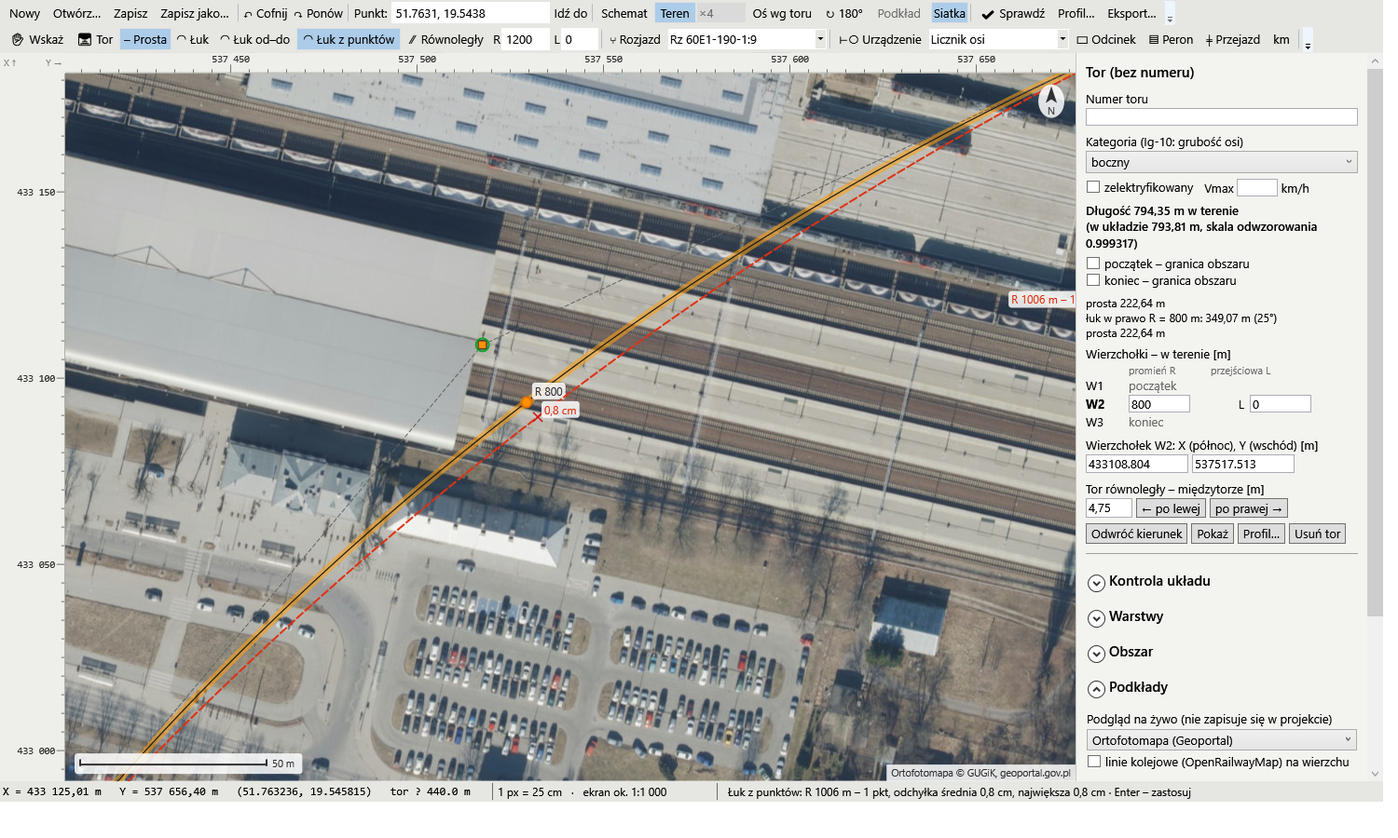
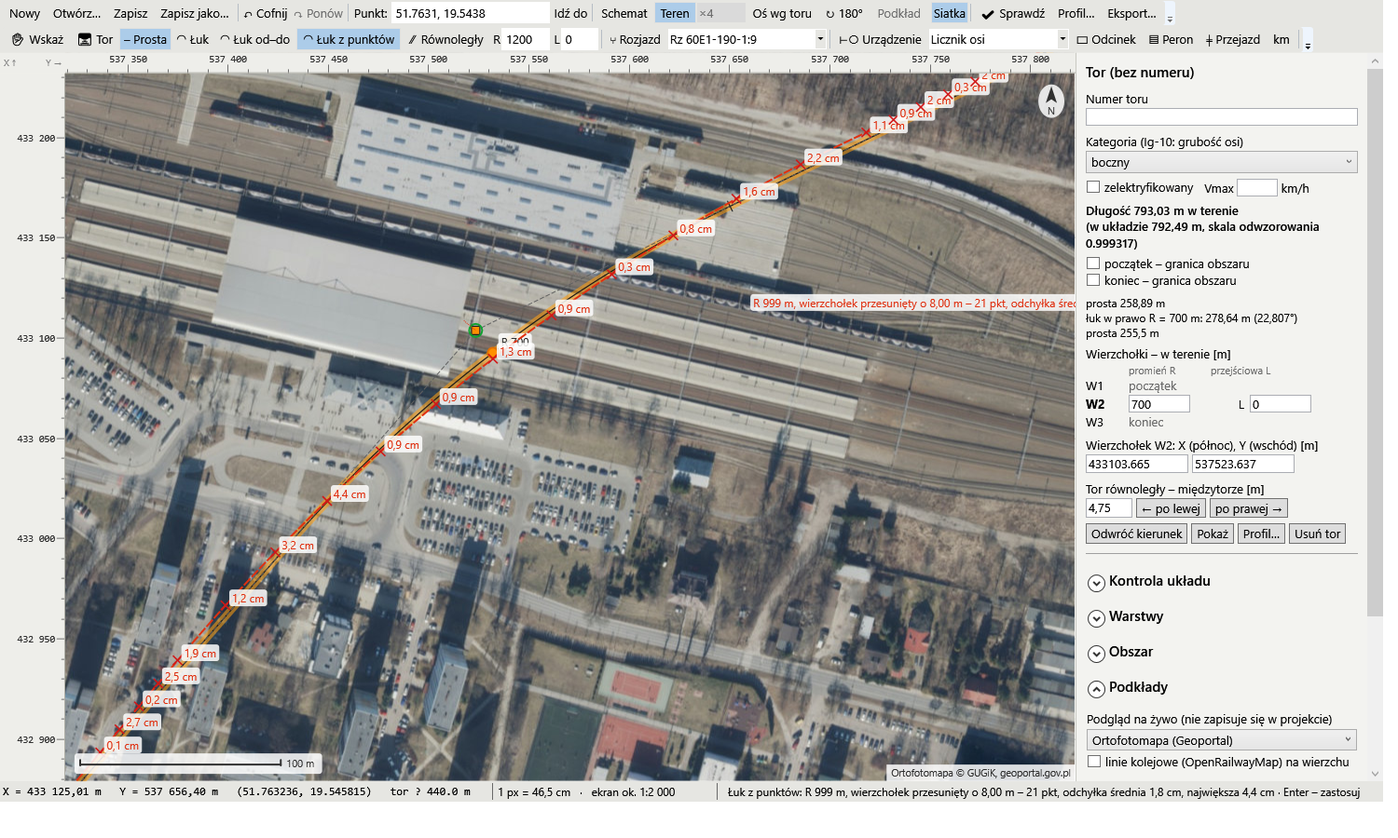
Edytor UT: łuk z punktów dopasowuje też wierzchołek (kierunki prostych)
- Budowa.FitArcFree: położenie wierzchołka, R i L razem metodą
  najmniejszych kwadratów (simpleks Neldera–Meada), końce toru stałe.
- Domyślnie w narzędziu „Łuk z punktów”; W – proste stałe (tylko R / L).
- Podgląd przesunięcia wierzchołka, Enter stosuje wszystko jedną zmianą.
- Test: wierzchołek 8 m obok i R 700 → 0,06 m i R 999 (prawdziwy 1000).

diff --git a/app/Lcs.Model/UtBudowa.cs b/app/Lcs.Model/UtBudowa.cs
@@ -353,7 +353,77 @@ public static class Budowa
         var dev = pts.Select(q => res.Nearest(q, 0.25).Dist / k).ToList();
         return new ArcFit(R, L, Math.Sqrt(dev.Sum(x => x * x) / dev.Count), dev.Max(), dev, null);
     }
+
+    /// <summary>
+    /// Łuk z punktów ze swobodnym wierzchołkiem: położenie wierzchołka <paramref name="vi"/> (czyli kierunki obu prostych do sąsiednich
+    /// wierzchołków), R i (gdy <paramref name="fitL"/>) L dobrane do punktów metodą najmniejszych kwadratów (simpleks Neldera–Meada,
+    /// start z dopasowania przy stałych prostych). Sąsiednie wierzchołki zostają. Punkty najlepiej na łuku i na prostych przed nim i za nim.
+    /// </summary>
+    public static ArcFit FitArcFree(IReadOnlyList<UtVertex> v, int vi, IReadOnlyList<XY> pts, double k, bool fitL)
+    {
+        var fixedFit = FitArc(v, vi, pts, k, fitL);
+        if (pts.Count < 4 || vi <= 0 || vi >= v.Count - 1) return fixedFit;
+        var p0 = v[vi].P;
+        double r0 = fixedFit.Error == null ? fixedFit.R : Math.Max(v[vi].R, 300), l0 = fixedFit.Error == null ? fixedFit.L : (fitL ? 0 : v[vi].L);
+        bool Bad(TrasaResult r) => r.Notes.Any(n => n.Error && n.Vertex >= vi - 1 && n.Vertex <= vi + 2);
+        List<UtVertex> Make(double[] x)
+        {
+            var c = v.Select(q => q.Clone()).ToList();
+            c[vi].X = p0.X + x[0] * k; c[vi].Y = p0.Y + x[1] * k; c[vi].R = Math.Exp(x[2]); c[vi].L = fitL ? Math.Max(0, x[3]) : v[vi].L;
+            return c;
+        }
+        double F(double[] x)
+        {
+            var r = Trasa.Compute(Make(x), k); if (Bad(r)) return 1e18;
+            double s = 0; foreach (var q in pts) { var d = r.Nearest(q, 1).Dist; s += d * d; }
+            return s;
+        }
+        int n = fitL ? 4 : 3;
+        var best = new double[] { 0, 0, Math.Log(r0), l0 };
+        // dwa przebiegi simpleksu (drugi od najlepszego punktu) – mniej utknięć
+        foreach (var step in new[] { new double[] { 5, 5, 0.2, 10 }, new double[] { 1, 1, 0.05, 3 } })
+            best = NelderMead(F, best, step, n, 400);
+        var fv = Make(best);
+        // zaokrąglenie R i L do 1 m (wierzchołek – co 1 mm) i kontrola, czy się mieści
+        double R = Math.Max(1, Math.Round(fv[vi].R)), L = Math.Max(0, Math.Round(fv[vi].L));
+        fv[vi].X = Math.Round(fv[vi].X, 3); fv[vi].Y = Math.Round(fv[vi].Y, 3); fv[vi].R = R; fv[vi].L = L;
+        while (fv[vi].R > 1 && Bad(Trasa.Compute(fv, k))) fv[vi].R -= 1;
+        var res = Trasa.Compute(fv, k);
+        if (Bad(res)) return fixedFit;
+        var dev = pts.Select(q => res.Nearest(q, 0.25).Dist / k).ToList();
+        double rms = Math.Sqrt(dev.Sum(x => x * x) / dev.Count);
+        if (fixedFit.Error == null && rms > fixedFit.Rms) return fixedFit;      // nie gorzej niż przy stałych prostych
+        return new ArcFit(fv[vi].R, fv[vi].L, rms, dev.Max(), dev, null, fv[vi].P);
+    }
+
+    /// <summary>Simpleks Neldera–Meada (minimum f) w pierwszych <paramref name="n"/> współrzędnych; pozostałe stałe.</summary>
+    static double[] NelderMead(Func<double[], double> f, double[] x0, double[] step, int n, int maxIt)
+    {
+        var pts = new List<double[]> { (double[])x0.Clone() };
+        for (int i = 0; i < n; i++) { var p = (double[])x0.Clone(); p[i] += step[i]; pts.Add(p); }
+        var fs = pts.Select(f).ToList();
+        for (int it = 0; it < maxIt; it++)
+        {
+            var ord = Enumerable.Range(0, n + 1).OrderBy(i => fs[i]).ToList();
+            pts = ord.Select(i => pts[i]).ToList(); fs = ord.Select(i => fs[i]).ToList();
+            if (Math.Abs(fs[n] - fs[0]) <= 1e-10 * (Math.Abs(fs[0]) + 1e-12)) break;
+            var c = new double[x0.Length]; Array.Copy(x0, c, x0.Length);
+            for (int j = 0; j < n; j++) c[j] = pts.Take(n).Average(p => p[j]);
+            double[] At(double t) { var q = (double[])pts[n].Clone(); for (int j = 0; j < n; j++) q[j] = c[j] + t * (pts[n][j] - c[j]); return q; }
+            var xr = At(-1); double fr = f(xr);
+            if (fr < fs[0]) { var xe = At(-2); double fe = f(xe); if (fe < fr) { pts[n] = xe; fs[n] = fe; } else { pts[n] = xr; fs[n] = fr; } continue; }
+            if (fr < fs[n - 1]) { pts[n] = xr; fs[n] = fr; continue; }
+            var xc = fr < fs[n] ? At(-0.5) : At(0.5); double fc = f(xc);
+            if (fc < Math.Min(fr, fs[n])) { pts[n] = xc; fs[n] = fc; continue; }
+            for (int i = 1; i <= n; i++) { for (int j = 0; j < n; j++) pts[i][j] = pts[0][j] + 0.5 * (pts[i][j] - pts[0][j]); fs[i] = f(pts[i]); }
+        }
+        int bi = Enumerable.Range(0, n + 1).OrderBy(i => fs[i]).First();
+        return pts[bi];
+    }
 }
 
-/// <summary>Wynik dopasowania łuku do punktów: R, L [m], odchyłka średnia kwadratowa i największa [m], odchyłki punktów, błąd.</summary>
-public record ArcFit(double R, double L, double Rms, double Max, List<double> Dev, string Error);
+/// <summary>
+/// Wynik dopasowania łuku do punktów: R, L [m], odchyłka średnia kwadratowa i największa [m], odchyłki punktów, błąd;
+/// <see cref="Vertex"/> – nowe położenie wierzchołka (dopasowanie ze swobodnym wierzchołkiem), null – bez zmiany.
+/// </summary>
+public record ArcFit(double R, double L, double Rms, double Max, List<double> Dev, string Error, XY? Vertex = null);

diff --git a/app/Lcs.EdytorUT/UtView.LukPunkty.cs b/app/Lcs.EdytorUT/UtView.LukPunkty.cs
@@ -17,9 +17,11 @@ public partial class UtView
     public readonly List<XY> FitPts = new();
     /// <summary>Dopasowanie także krzywych przejściowych L (Tab).</summary>
     public bool FitWithL { get; private set; }
+    /// <summary>Wierzchołek (kierunki prostych) też dopasowywany do punktów – domyślnie; W – stałe proste.</summary>
+    public bool FitFreeVertex { get; private set; } = true;
     public ArcFit FitResult { get; private set; }
     /// <summary>Łuk z punktów gotowy: tor, wierzchołek, R, L, opis.</summary>
-    public event Action<string, int, double, double, string> ArcFitDone;
+    public event Action<string, int, double, double, XY?, string> ArcFitDone;
 
     /// <summary>Wierzchołek łuku pod kursorem: element osi najbliżej kliknięcia (łuk / przejściowa – jego wierzchołek, prosta – bliższy wierzchołek).</summary>
     (string Track, int Vi)? FitVertexAt(Point s)
@@ -56,7 +58,7 @@ public partial class UtView
     void Refit()
     {
         if (fitArc is not var (id, vi) || Track(id) is not UtTrack t) { FitResult = null; return; }
-        FitResult = FitPts.Count == 0 ? null : Budowa.FitArc(t.Vertices, vi, FitPts, Trasa.KFor(t), FitWithL);
+        FitResult = FitPts.Count == 0 ? null : FitFreeVertex ? Budowa.FitArcFree(t.Vertices, vi, FitPts, Trasa.KFor(t), FitWithL) : Budowa.FitArc(t.Vertices, vi, FitPts, Trasa.KFor(t), FitWithL);
         DraftInfo?.Invoke(FitInfo());
         InvalidateVisual();
     }
@@ -65,7 +67,8 @@ public partial class UtView
     {
         if (FitResult == null) return "Łuk z punktów: kliknij punkty na osi łuku";
         if (FitResult.Error != null) return "Łuk z punktów: " + FitResult.Error;
-        return $"Łuk z punktów: R {FitResult.R:0} m" + (FitWithL || FitResult.L > 0 ? $", L {FitResult.L:0} m" : "") +
+        string vx = FitFreeVertex ? (FitResult.Vertex is XY nv && fitArc is var (fid, fvi) && Track(fid) is UtTrack ft ? $", wierzchołek przesunięty o {XY.Dist(nv, ft.Vertices[fvi].P) / Trasa.KFor(ft):0.00} m" : FitPts.Count < 4 ? " (wierzchołek – od 4 punktów)" : "") : " (proste stałe – W)";
+        return $"Łuk z punktów: R {FitResult.R:0} m" + (FitWithL || FitResult.L > 0 ? $", L {FitResult.L:0} m" : "") + vx +
                $" – {FitPts.Count} pkt, odchyłka średnia {FitResult.Rms * 100:0.#} cm, największa {FitResult.Max * 100:0.#} cm · Enter – zastosuj";
     }
 
@@ -75,7 +78,7 @@ public partial class UtView
         if (fitArc is not var (id, vi) || FitResult == null || FitResult.Error != null) return false;
         var r = FitResult; string info = FitInfo().Replace(" · Enter – zastosuj", "");
         fitArc = null; FitPts.Clear(); FitResult = null; InvalidateVisual();
-        ArcFitDone?.Invoke(id, vi, r.R, r.L, info);
+        ArcFitDone?.Invoke(id, vi, r.R, r.L, r.Vertex, info);
         return true;
     }
 
@@ -83,6 +86,7 @@ public partial class UtView
     {
         if (tool != UtTool.LukPunkty) return false;
         if (k == Key.Tab) { FitWithL = !FitWithL; if (fitArc != null) Refit(); else DraftInfo?.Invoke(FitWithL ? "Łuk z punktów: dopasowanie R i krzywych przejściowych L" : "Łuk z punktów: dopasowanie samego R"); return true; }
+        if (k == Key.W) { FitFreeVertex = !FitFreeVertex; if (fitArc != null) Refit(); else DraftInfo?.Invoke(FitFreeVertex ? "Łuk z punktów: wierzchołek (proste) też dopasowywany" : "Łuk z punktów: proste stałe, tylko R / L"); return true; }
         if (fitArc == null) return false;
         if (k == Key.Escape) { fitArc = null; FitPts.Clear(); FitResult = null; DraftInfo?.Invoke("Łuk z punktów: kliknij łuk toru"); InvalidateVisual(); return true; }
         if (k == Key.Back) { if (FitPts.Count > 0) { FitPts.RemoveAt(FitPts.Count - 1); Refit(); } return true; }
@@ -104,6 +108,7 @@ public partial class UtView
         if (FitResult is { Error: null } fr)
         {
             var c = t.Vertices.Select(x => x.Clone()).ToList(); c[vi].R = fr.R; c[vi].L = fr.L;
+            if (fr.Vertex is XY nv) { c[vi].X = nv.X; c[vi].Y = nv.Y; dc.DrawLine(new Pen(DraftInk, 1) { DashStyle = DashStyles.Dot }, ToScreen(t.Vertices[vi].P), ToScreen(nv)); }
             dc.DrawGeometry(null, pen, Line(Trasa.Compute(c, Trasa.KFor(t)).Sample(0.5), 0));
         }
         var red = new Pen(Red, 1.6);

diff --git a/app/Lcs.EdytorUT/Test.LukPunkty.cs b/app/Lcs.EdytorUT/Test.LukPunkty.cs
@@ -37,7 +37,9 @@ public static partial class Test
             pts.Add(q + Element.Right(az) * ((rnd.NextDouble() - 0.5) * 0.06 * k));
         }
         w.SetTool(UtTool.LukPunkty);
-        Ok(w.View.Tool == UtTool.LukPunkty, "narzędzie „Łuk z punktów” (J)");
+        Ok(w.View.Tool == UtTool.LukPunkty && w.View.FitFreeVertex, "narzędzie „Łuk z punktów” (J), domyślnie wierzchołek też dopasowywany");
+        KeyPress(w, Key.W);
+        Ok(!w.View.FitFreeVertex, "W – proste stałe (tylko R / L), jak tor narysowany dobrze, a źle tylko R");
         w.View.SetView(o, 0.4);
         var r0 = w.View.Geometry(t);
         w.View.SimClick(S(r0.At(r0.Nearest(o).S).P));
@@ -66,8 +68,38 @@ public static partial class Test
         var mid = truth.At((s0 + len / 2) / truth.K).P; w.View.SetView(mid, 0.1); w.View.SimClick(S(mid));
         var f3 = w.View.FitResult;
         Ok(!w.View.FitWithL && f3 != null && f3.Max < 0.015, $"jeden punkt w środku łuku: R {f3?.R:0} m przechodzi przez niego ({f3?.Max * 100:0.#} cm – R zaokrąglony do 1 m)");
-        if (shotRails != null) { w.View.SetView(mid, 0.25); await Settle(w); Save(w, shotRails.Replace("_szyny.png", "_luk_z_punktow.png")); }
         KeyPress(w, Key.Escape);
+
+        // --- jak na zrzucie właściciela: wierzchołek narysowany 8 m obok, R 700; prawdziwy łuk R 1000 (bez L) – punkty na łuku i na prostych
+        KeyPress(w, Key.W);
+        Ok(w.View.FitFreeVertex, "W – z powrotem: wierzchołek swobodny");
+        var tv = d.P.Tracks.First(x => x.Id == t.Id);
+        var trueV = tv.Vertices[1].P;
+        var off = trueV + Element.Right(lineAz * Math.PI / 180) * (8 * k);
+        d.Change("Zły wierzchołek", p => { var x = p.Tracks.First(q => q.Id == t.Id).Vertices[1]; x.X = off.X; x.Y = off.Y; x.R = 700; x.L = 0; });
+        var truth2 = Trasa.Compute(new List<UtVertex> { tv.Vertices[0].Clone(), new UtVertex { X = trueV.X, Y = trueV.Y, R = 1000 }, tv.Vertices[2].Clone() }, k);
+        double c0 = 0, cl = 0, ac = 0;
+        foreach (var e in truth2.Elements) { if (e.Kind != ElKind.Prosta) { c0 = ac; cl = e.Len; } ac += e.Len; }
+        var pts2 = new List<XY>(); var rnd2 = new Random(11);
+        for (int i = -4; i <= 16; i++)       // 4 punkty na prostej przed łukiem (co 15 m), 13 na łuku, 4 na prostej za nim
+        {
+            double s = i < 0 ? c0 + i * 15 : i <= 12 ? c0 + cl * i / 12 : c0 + cl + (i - 12) * 15;
+            var (q, az) = truth2.At(s / truth2.K); pts2.Add(q + Element.Right(az) * ((rnd2.NextDouble() - 0.5) * 0.06 * k));
+        }
+        var tr2 = w.View.Geometry(d.P.Tracks.First(x => x.Id == t.Id));
+        w.View.SetView(off, 0.4); w.View.SimClick(S(tr2.At(tr2.Nearest(off).S).P));
+        foreach (var q in pts2) { w.View.SetView(q, 0.1); w.View.SimClick(S(q)); }
+        var f4 = w.View.FitResult;
+        double vErr = f4?.Vertex is XY fv4 ? XY.Dist(fv4, trueV) / k : 99;
+        Ok(f4 != null && f4.Error == null && vErr < 0.5 && Math.Abs(f4.R - 1000) <= 15 && f4.Max < 0.05,
+            $"21 punktów (łuk i proste): wierzchołek {vErr:0.00} m od prawdziwego (był 8 m), R {f4?.R:0} m (zdjęcie 1000, był 700), odchyłki średnio {f4?.Rms * 100:0.#} cm, najwyżej {f4?.Max * 100:0.#} cm");
+        if (shotRails != null) { w.View.FitPoints(pts2); await Settle(w); Save(w, shotRails.Replace("_szyny.png", "_luk_z_punktow.png")); }
+        KeyPress(w, Key.Enter);
+        var applied = d.P.Tracks.First(x => x.Id == t.Id).Vertices[1];
+        Ok(XY.Dist(applied.P, trueV) / k < 0.5 && Math.Abs(applied.R - 1000) <= 15 && w.View.Geometry(d.P.Tracks.First(x => x.Id == t.Id)).Ok,
+            $"Enter – wierzchołek przesunięty i R {applied.R} m zastosowane jedną zmianą ({w.LastMessage})");
+        w.DoUndo();
+        Ok(XY.Dist(d.P.Tracks.First(x => x.Id == t.Id).Vertices[1].P, off) < 1e-9, "Ctrl+Z – wierzchołek wrócił na złe miejsce");
         w.SetTool(UtTool.Wskaz);
         await Task.CompletedTask;
     }

diff --git a/app/Lcs.EdytorUT/MainWindow.cs b/app/Lcs.EdytorUT/MainWindow.cs
@@ -165,7 +165,7 @@ public partial class MainWindow : Window
             UtTool.Urzadzenie => $"{UtDevice.KindInfo(View.DevKind).Name}: " + (UtDevice.KindInfo(View.DevKind).Directed && View.DevKind != UtDevice.Koziol
                 ? "wciśnij na torze w miejscu urządzenia i przeciągnij w stronę jazdy, której dotyczy, po stronie, po której stoi"
                 : View.DevKind == UtDevice.Koziol ? "kliknij przy końcu toru (przyciąga się do końca)" : "kliknij na torze w miejscu urządzenia"),
-            UtTool.LukPunkty => "Łuk z punktów: kliknij łuk toru (albo przy załamaniu), potem kilka punktów na osi prawdziwego łuku na zdjęciu (najlepiej od początku do końca łuku) – promień dobiera się do wszystkich punktów, przy każdym widać odchyłkę; Tab – także krzywe przejściowe L; Backspace – usuń punkt; Enter / PPM – zastosuj; Esc – od nowa",
+            UtTool.LukPunkty => "Łuk z punktów: kliknij łuk toru (albo przy załamaniu), potem punkty na osi toru na zdjęciu – na łuku i kawałek na prostych przed nim i za nim; wierzchołek (kierunki prostych), promień i (Tab) krzywe przejściowe L dobiorą się do punktów, przy każdym widać odchyłkę; W – proste stałe (tylko R / L); Backspace – usuń punkt; Enter / PPM – zastosuj; Esc – od nowa",
             UtTool.LukOdDo => "Łuk od–do: kliknij na torze w miejscu początku łuku (np. gdzie na zdjęciu kończy się prosta), potem w miejscu końca łuku – wierzchołek i promień dobiorą się same; wierzchołki pośrednie znikną; PPM / Esc – od nowa",
             UtTool.Odcinek => "Odcinek: kliknij na torze – nazwa odcinka kontroli niezajętości dla całego kawałka między granicami (liczniki osi, złącza izolowane, końce torów); kolor = odcinek, czerwone kreski – kawałek bez odcinka",
             UtTool.Peron => "Peron: wciśnij na torze w miejscu początku krawędzi peronowej i przeciągnij wzdłuż toru do jej końca, po stronie peronu",

diff --git a/app/Lcs.EdytorUT/MainWindow.Tory.cs b/app/Lcs.EdytorUT/MainWindow.Tory.cs
@@ -65,9 +65,9 @@ public partial class MainWindow
             Message($"Łuk od–do: R {F(r)} m" + (note != null ? " – " + note : ""));
         };
         View.TrackMenu += (id, s) => { var cm = BuildTrackMenu(id, s); cm.PlacementTarget = View; cm.IsOpen = true; };
-        View.ArcFitDone += (id, vi, r, l, info) =>
+        View.ArcFitDone += (id, vi, r, l, vx, info) =>
         {
-            ChTrack(id, "Łuk z punktów", t => { t.Vertices[vi].R = r; t.Vertices[vi].L = l; });
+            ChTrack(id, "Łuk z punktów", t => { t.Vertices[vi].R = r; t.Vertices[vi].L = l; if (vx is XY p) { t.Vertices[vi].X = p.X; t.Vertices[vi].Y = p.Y; } });
             View.Select(id, vi);
             Message(info);
         };

diff --git a/README.md b/README.md
@@ -121,7 +121,7 @@ Stan (etapy 1–7, bez edytora zobrazowania):
   - Backspace cofa ostatni odcinek, Enter / PPM / dwuklik kończy, Esc rezygnuje, Ctrl wyłącza przyciąganie.
 - **Równoległy (P):** tor równoległy odrysowany z podkładu. Kliknij tor wzorcowy, potem na zdjęciu oś nowego toru w miejscu jego początku. Odstęp liczy się z kliknięcia co 1 cm, z Shift co 0,25 m. Na koniec kliknij miejsce końca albo naciśnij Enter, wtedy tor biegnie do końca toru wzorcowego. Łuki stają się współśrodkowe.
 - **Łuk od–do (K):** kliknij na torze w miejscu, gdzie zaczyna się łuk (np. na zdjęciu kończy się prosta), a potem tam, gdzie się kończy. Program wstawi łuk o pasującym promieniu, a wierzchołki pośrednie, np. z odrysowania łuku kilkoma kliknięciami, usunie. Przed drugim kliknięciem widać podgląd z R.
-- **Łuk z punktów (J):** dokładniejszy łuk ze zdjęcia. Kliknij łuk toru (albo przy załamaniu), potem kilka punktów na osi prawdziwego łuku na zdjęciu, najlepiej od początku do końca łuku. Program dobiera promień tak, żeby łuk przechodził jak najbliżej wszystkich punktów, a proste toru zostają na miejscu. Przy każdym punkcie widać odchyłkę w cm. Tab włącza dopasowanie także krzywych przejściowych L. Backspace usuwa ostatni punkt, Enter albo PPM zatwierdza, Esc zaczyna od nowa.
+- **Łuk z punktów (J):** dokładny łuk ze zdjęcia. Kliknij łuk toru (albo przy załamaniu), potem punkty na osi toru na zdjęciu: na łuku i kawałek na prostych przed nim i za nim (razem co najmniej 4, im więcej i szerzej, tym dokładniej). Program sam dobiera położenie wierzchołka (czyli kierunki obu prostych), promień i po Tab krzywe przejściowe L tak, żeby tor przechodził jak najbliżej wszystkich punktów. Końce toru zostają na miejscu. Przy każdym punkcie widać odchyłkę w cm, a kropkowana linia pokazuje, gdzie przesunie się wierzchołek. Klawisz W przełącza na proste stałe (dobiera się tylko R i L). Backspace usuwa ostatni punkt, Enter albo PPM zatwierdza, Esc zaczyna od nowa.
 - **Usunięcie kawałka toru:** PPM na torze we Wskaż otwiera menu: „Usuń ten kawałek” usuwa prostą albo cały łuk pod kursorem, a tor rozcina się na dwa (albo skraca, gdy to koniec). „Rozetnij tor tutaj” (tylko na prostej) daje dwa tory stykające się w tym miejscu. Wszystko, co leży za cięciem (rozjazdy, urządzenia, odcinki, perony, przejazdy, punkty km, profil), przechodzi na nowy tor z kilometrażem od jego początku. Co leżało w usuniętym kawałku, znika. Program nie tnie w obrębie rozjazdu ani toru łączącego łącznika.
 - **Zaznaczanie kilku elementów (Wskaż):** Ctrl + klik dodaje element do zaznaczenia albo go zdejmuje: tor, rozjazd, skrzyżowanie, urządzenie, odcinek, peron, przejazd, punkt km. Shift + przeciągnięcie od pustego miejsca zaznacza prostokątem wszystko, co leży w nim w całości. Panel pokazuje listę zaznaczonych. Del albo „Usuń zaznaczone” usuwa wszystkie naraz, a jedno Ctrl+Z je przywraca. Esc albo zwykły klik kończy zaznaczenie.
 - **Uchwyt łuku:** zaznaczony tor ma kółko w środku każdego łuku. Przeciągnięcie zmienia promień, a R widać na żywo. Przeciągnięcie do wierzchołka usuwa łuk (R 0). Załamanie bez łuku ma kreskowane kółko po wewnętrznej stronie kąta: odciągnięcie go tworzy łuk.
@@ -159,7 +159,7 @@ Wymiary a i b rozjazdów w katalogu są przybliżone, katalogowe wpisz w `Dane/r
 | U | Urządzenie (rodzaj z listy na pasku) |
 | P | Równoległy |
 | K | Łuk od–do |
-| J | Łuk z punktów; w nim Tab – także krzywe przejściowe L, Enter – zastosuj |
+| J | Łuk z punktów; w nim Tab – także krzywe przejściowe L, W – proste stałe / wierzchołek swobodny, Enter – zastosuj |
 | O | Odcinek |
 | M | Miarka |
 | S | widok Schemat / Teren |

diff --git a/HISTORIA_EDYTOR_UT.md b/HISTORIA_EDYTOR_UT.md
@@ -154,6 +154,7 @@ Wpisy są w kolejności dopisywania, nie zawsze według dat.
 **ZROBIONE 2026-10-17 – narzędzie „Łuk z punktów” (J)** (właściciel: „lepsze łukowanie, kilka punktów, żeby zrobić precyzyjniejszy łuk”): klik na łuku toru (albo przy załamaniu), potem dowolnie wiele punktów na osi prawdziwego łuku na zdjęciu; promień R (Tab – także krzywe przejściowe L) dobiera się metodą najmniejszych kwadratów odległości punktów od osi, łuk zostaje styczny do prostych toru (`Budowa.FitArc`, rekord `ArcFit`: R metodą złotego podziału po ln R w zakresie, w którym łuk się mieści; z L – na przemian R i L do zbieżności; R i L zaokrąglone do 1 m). Przy punktach odchyłki w cm, podgląd dopasowanego łuku, na pasku R, L, odchyłka średnia i największa. Backspace – usuń punkt, Enter / PPM – zastosuj (z cofaniem), Esc – od nowa; łuków ustawianych przez rozjazd nie zmienia. Kod: `UtView.LukPunkty.cs`, przycisk „◠ Łuk z punktów” i klawisz J (`MainWindow.cs`), `ArcFitDone` w `MainWindow.Tory.cs`.
 - Test `Test.LukPunkty.cs` jak użytkownik: tor narysowany zgrubnie z R 800, „na zdjęciu” łuk R 1000 z L 60; 17 punktów na prawdziwej osi z rozrzutem ±3 cm → samo R: 1008 m, odchyłki do 12 cm (przejściowych samo R nie odda); Tab → R 1000 m, L 59 m, średnio 2 cm (tyle, ile rozrzut kliknięć); Backspace, Enter, Ctrl+Z; jeden punkt – łuk przez niego (0,8 cm – R co 1 m). Cały `--test`: **0 błędów**. Zrzut: `zrzuty/EdytorUT_luk_z_punktow.png`.
 - Wskazówka: punkty od początku do końca łuku, także na krzywych przejściowych; przy samym R wystarczą 3–5 punktów w części kołowej.
+- **Poprawka 2026-10-17 – wierzchołek swobodny** (zrzut właściciela: łuk R 863 odjeżdżał od torów na zdjęciu, bo wierzchołek – przecięcie prostych, niewidoczne na zdjęciu – był w złym miejscu; przy stałych prostych żaden R tego nie naprawi; „ciężko jest”): `Budowa.FitArcFree` – położenie wierzchołka (kierunki obu prostych do sąsiednich wierzchołków), R i L razem metodą najmniejszych kwadratów (simpleks Neldera–Meada w dwóch przebiegach, start z dopasowania przy stałych prostych; wynik nie gorszy od niego; od 4 punktów). Domyślnie w narzędziu, klawisz W – proste stałe. Podgląd: kropkowana linia stary → nowy wierzchołek, na pasku „wierzchołek przesunięty o x m”; Enter zmienia wierzchołek, R i L jedną zmianą. Test: wierzchołek narysowany 8 m obok, R 700; 21 punktów (4 na prostej przed łukiem, 13 na łuku, 4 za nim, rozrzut ±3 cm) → wierzchołek 0,06 m od prawdziwego, R 999 m (1000), odchyłki średnio 1,8 cm; Enter, Ctrl+Z. Cały `--test`: 0 błędów.
 
 ## Edytor UT – usuwanie kawałka toru, zaznaczanie kilku
 

diff --git a/PLAN_EDYTOR_UT.md b/PLAN_EDYTOR_UT.md
@@ -98,7 +98,7 @@ Właściciel: „łączenie torów trzeba ogarnąć i to, jak łuki powstają”
 2. **Łączenie:** zakończenie na końcu innego toru (przyciąganie) łączy stycznie – jednym łukiem, gdy styczne się przecinają (R z pola albo największy, jaki się mieści), inaczej łukami odwrotnymi (esowanie, zmiana rozstawu). Tory scalają się w jeden, jeśli drugi nie jest związany z rozjazdem ani skrzyżowaniem. Start na końcu toru A i klik na końcu toru B łączy dwa istniejące tory.
 3. **Edycja łuku myszą:** zaznaczony tor ma uchwyt w środku każdego łuku. Przeciągnięcie zmienia R (środek łuku idzie za kursorem po dwusiecznej), a R widać na żywo. Wierzchołek dalej przeciąga się jak dotąd.
 4. Backspace cofa ostatni odcinek, Enter / PPM / dwuklik kończy, Esc rezygnuje.
-5. **Łuk z punktów (J)** (2026-10-17, właściciel: „kilka punktów, żeby zrobić precyzyjniejszy łuk”): klik łuku toru, potem dowolnie wiele punktów na osi łuku ze zdjęcia; R (i L) metodą najmniejszych kwadratów, styczny do prostych toru (`Budowa.FitArc`).
+5. **Łuk z punktów (J)** (2026-10-17, właściciel: „kilka punktów, żeby zrobić precyzyjniejszy łuk”, potem „ciężko jest”): klik łuku toru, potem punkty na osi toru ze zdjęcia (łuk i proste obok); wierzchołek, R i L metodą najmniejszych kwadratów (`Budowa.FitArcFree`); W – proste stałe, tylko R / L (`Budowa.FitArc`).
 6. **Usuwanie kawałka toru i zaznaczanie kilku** (2026-10-17): PPM na torze – usuń kawałek (prosta / łuk) z rozcięciem toru, rozetnij tor (`Ciecie`); Ctrl + klik i Shift + prostokąt we Wskaż, Del usuwa naraz.
 
 ## 5d. Etap 5, część 1 – urządzenia na torze (2026-10-16)

diff --git a/ROZWOJ.md b/ROZWOJ.md
@@ -120,7 +120,7 @@ Szczegółowe opisy zrobionych prac (etapy 0–7 i poprawki po uwagach właścic
 - **Etap 6:** profil podłużny – niweleta z załomami i łukami pionowymi, teren z NMT GUGiK.
 - **Etap 7:** „Sprawdź” (F7), warstwy wg Ig-10, eksport w skali do PDF / PNG.
 - Ostatni pełny test `--test` po zacommitowanych zmianach: **0 błędów**. Nie sprawdzono prawdziwą myszą ani na prawdziwej drukarce.
-- **Łuk z punktów (J):** promień (Tab – też krzywe przejściowe) dopasowany metodą najmniejszych kwadratów do punktów klikniętych na osi łuku na zdjęciu; test – R 1000 / L 59 przy prawdziwych 1000 / 60, średnio 2 cm.
+- **Łuk z punktów (J):** wierzchołek (kierunki prostych), promień i (Tab) krzywe przejściowe dopasowane metodą najmniejszych kwadratów do punktów klikniętych na osi toru na zdjęciu; test – wierzchołek narysowany 8 m obok wraca z dokładnością 6 cm, R 700 → 999 (prawdziwy 1000); ze stałymi prostymi (W) R 1000 / L 59 przy 1000 / 60.
 - **Usuwanie kawałka toru i zaznaczanie kilku:** PPM na torze – „Usuń ten kawałek” (prosta / łuk, tor rozcina się na dwa) i „Rozetnij tor tutaj”; Ctrl + klik i Shift + prostokąt zaznaczają kilka elementów, Del usuwa naraz (jedno Ctrl+Z).
 - Obok edytora: **kalkulator przechyłki** `app/Lcs.Przechylka` (`Przechylka.exe`) – wartości dopuszczalne domyślne są przykładowe, do potwierdzenia przez właściciela; później wpięcie do edytora UT (pole L przy łuku).
 
